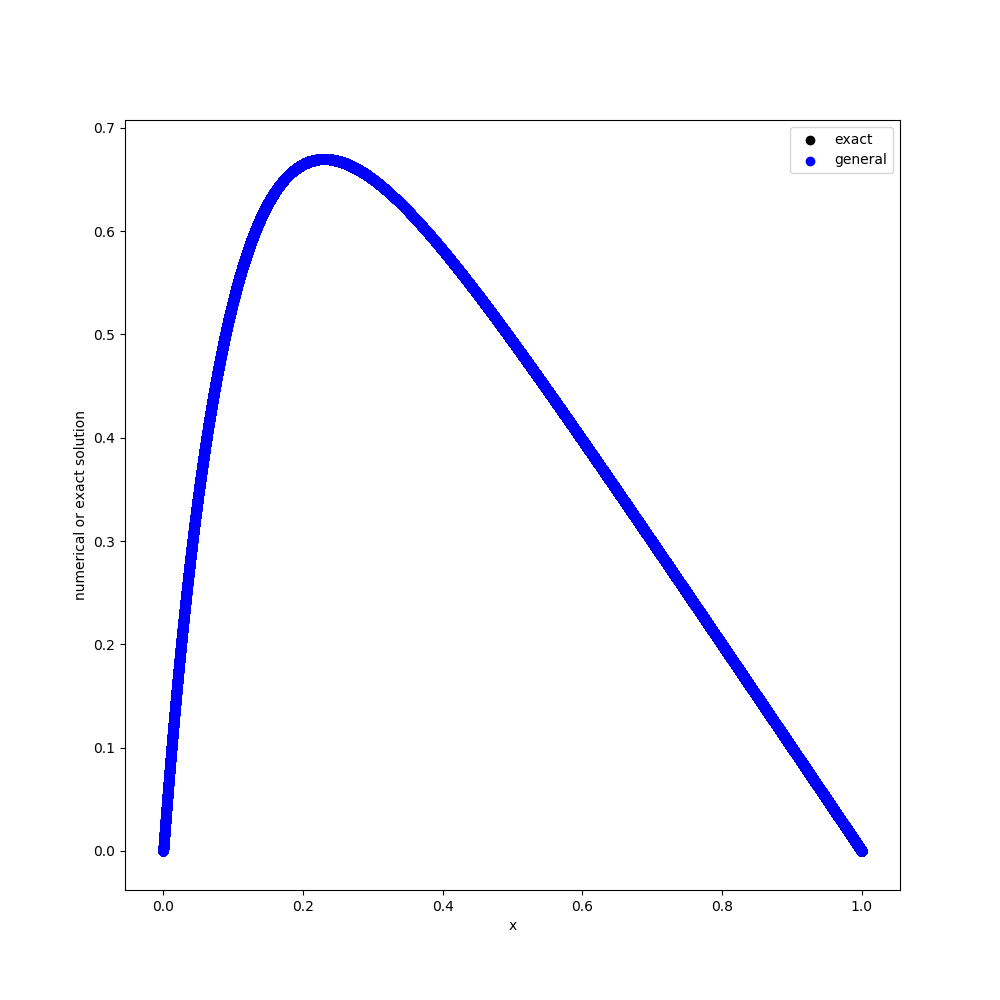
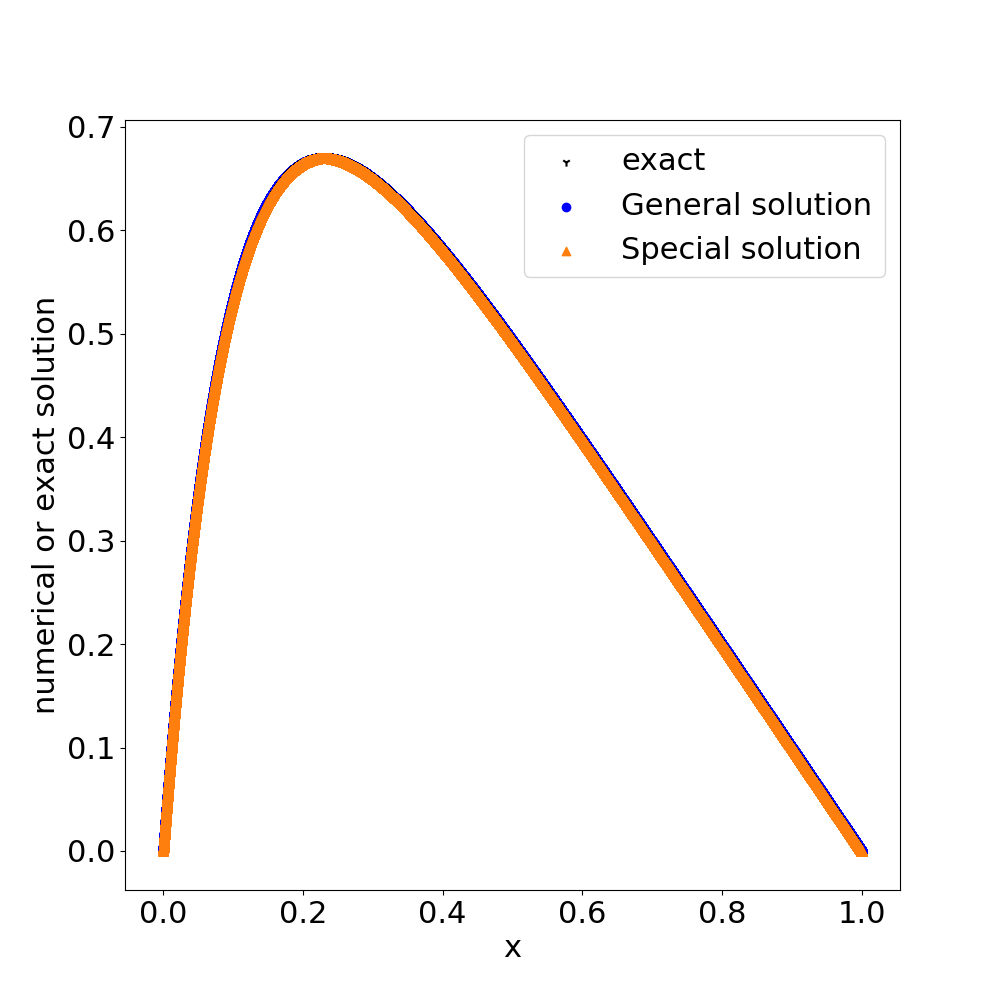
Created new plots

diff --git a/plotting.py b/plotting.py
@@ -11,40 +11,44 @@ import matplotlib.pyplot as plt
 # Change the font size of all figures.
 plt.rcParams.update({'font.size': 22})
 
-plotNumVsSol = False
+# Decide what to plot
+plot_error = False
+plot_num_and_exact = False
+print_timing = True
 
-toi = pd.read_csv("./Results/toi.csv")
+if plot_error or plot_num_and_exact:
+    toi = pd.read_csv("./Results/1.6GBtoi.csv")
 n_schedule = np.array([10, 100, 1e3, 1e4, 1e5, 1e6, 1e7], dtype=int)
-
-#plot maximum relative error against h.
-plt.figure(figsize=(10,10))
-plt.xlabel("Log(h)")
-plt.ylabel("Maximum Relative Error")
-
-label_added = False
-for n in n_schedule:
-    filter_n = toi['n'] == n
-    h = 1/(n+1)
+if plot_error:
+    #plot maximum relative error against h.
+    plt.figure(figsize=(10,10))
+    plt.xlabel("Log(h)")
+    plt.ylabel("Maximum Relative Error")
     
-    max_err_spec = (np.float64(toi[filter_n]['relative error spec'])).max()
-    max_err_gen = (np.float64(toi[filter_n]['relative error gen'])).max()
-    
-    if not label_added:
-        plt.scatter(np.log10(h), max_err_spec,
-                 color = 'tab:orange', marker = "^", label ='Special algorithm')
-        plt.scatter(np.log10(h), max_err_gen,
-                 color = 'b', label ='General algorithm')
-        label_added = True
-    else:
-        plt.scatter(np.log10(h), max_err_spec,
-                 color = 'tab:orange', marker = "^",)
-        plt.scatter(np.log10(h), max_err_gen,
-                 color = 'b')
-plt.legend()
-plt.savefig("./Results/error_vs_h.png")
-plt.show()
+    label_added = False
+    for n in n_schedule:
+        filter_n = toi['n'] == n
+        h = 1/(n+1)
+        
+        max_err_spec = (np.float64(toi[filter_n]['relative error spec'])).max()
+        max_err_gen = (np.float64(toi[filter_n]['relative error gen'])).max()
+        
+        if not label_added:
+            plt.scatter(np.log10(h), max_err_spec,
+                     color = 'tab:orange', marker = "^", label ='Special algorithm')
+            plt.scatter(np.log10(h), max_err_gen,
+                     color = 'b', label ='General algorithm')
+            label_added = True
+        else:
+            plt.scatter(np.log10(h), max_err_spec,
+                     color = 'tab:orange', marker = "^",)
+            plt.scatter(np.log10(h), max_err_gen,
+                     color = 'b')
+    plt.legend()
+    plt.savefig("./Results/error_vs_h.png")
+    plt.show()
 
-if plotNumVsSol:
+if plot_num_and_exact:
     # plot x against exact and v
     for n in n_schedule:
         plt.figure(figsize=(10,10))
@@ -53,11 +57,15 @@ if plotNumVsSol:
     
         filter_n = toi['n'] == n
         plt.scatter(toi[filter_n]['x'], toi[filter_n]['exact'],
-                 color = 'black', label ='exact')
+                 color = 'k', marker = "1", label ='exact')
         plt.scatter(toi[filter_n]['x'], toi[filter_n]['v general'],
                  color = 'b', label ='General solution')
         plt.scatter(toi[filter_n]['x'], toi[filter_n]['v special'],
-                 color = 'r', label ='Special solution')
+                 color = 'tab:orange', marker = "^", label ='Special solution')
         plt.legend()
         plt.savefig("./Results/solution_vs_exact_n="+ str(n) +".png")
         plt.close()
+        
+if print_timing:
+    toi_timing = pd.read_csv("./Results/1.6GBtoiTiming.csv")
+    print(toi_timing.to_latex(index = False))
